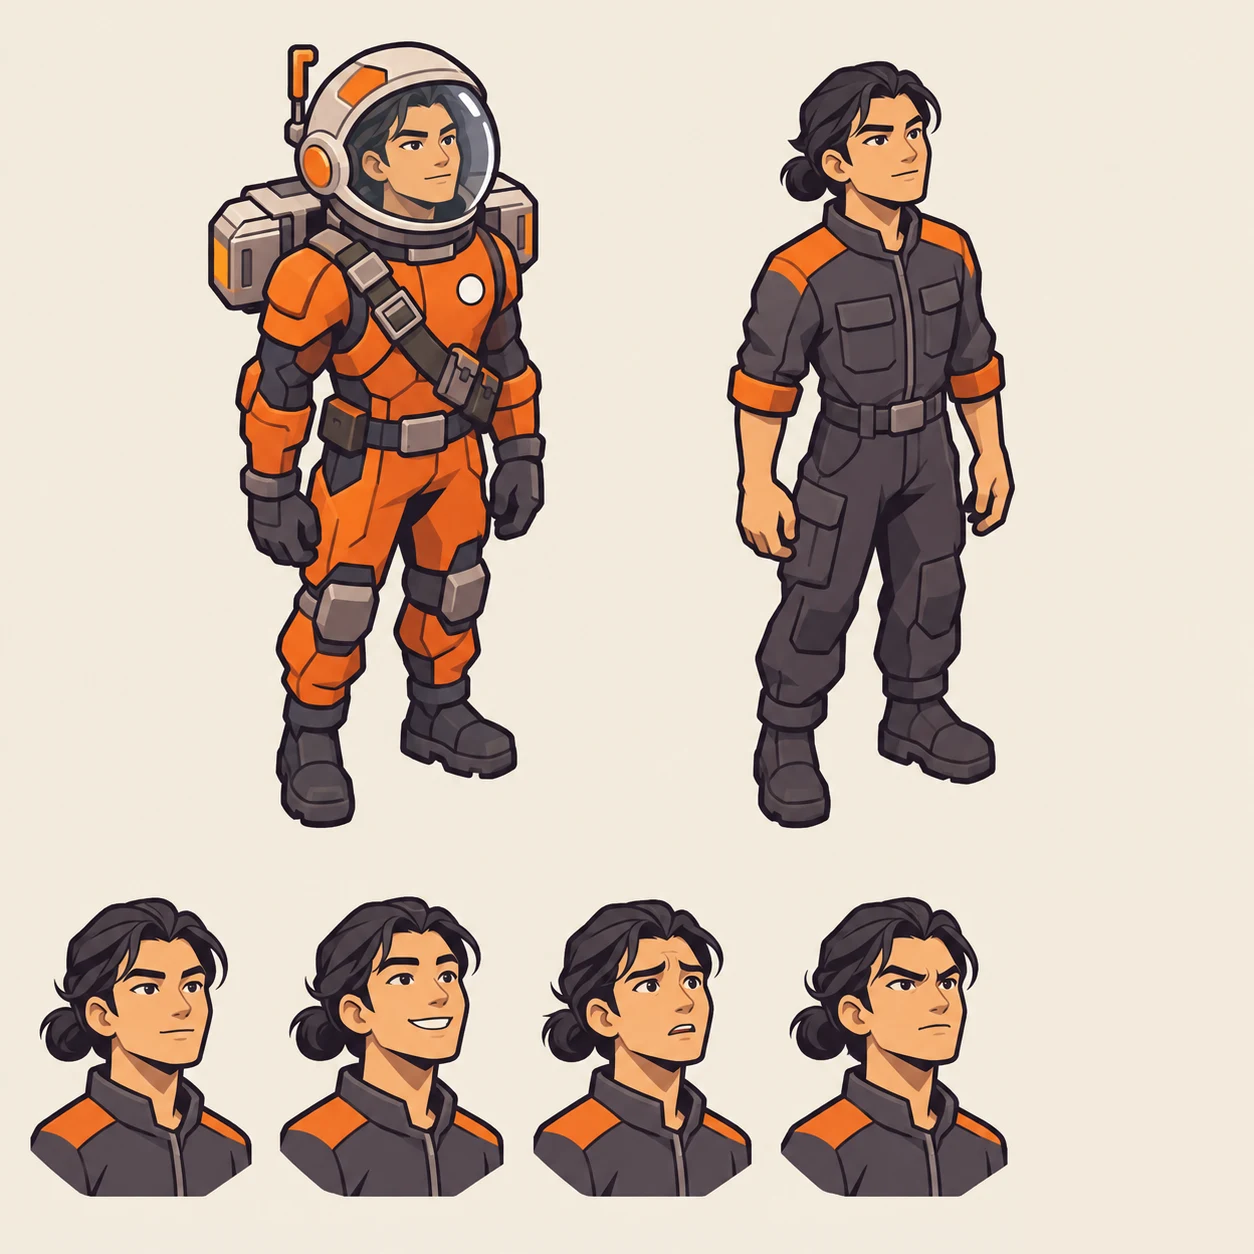
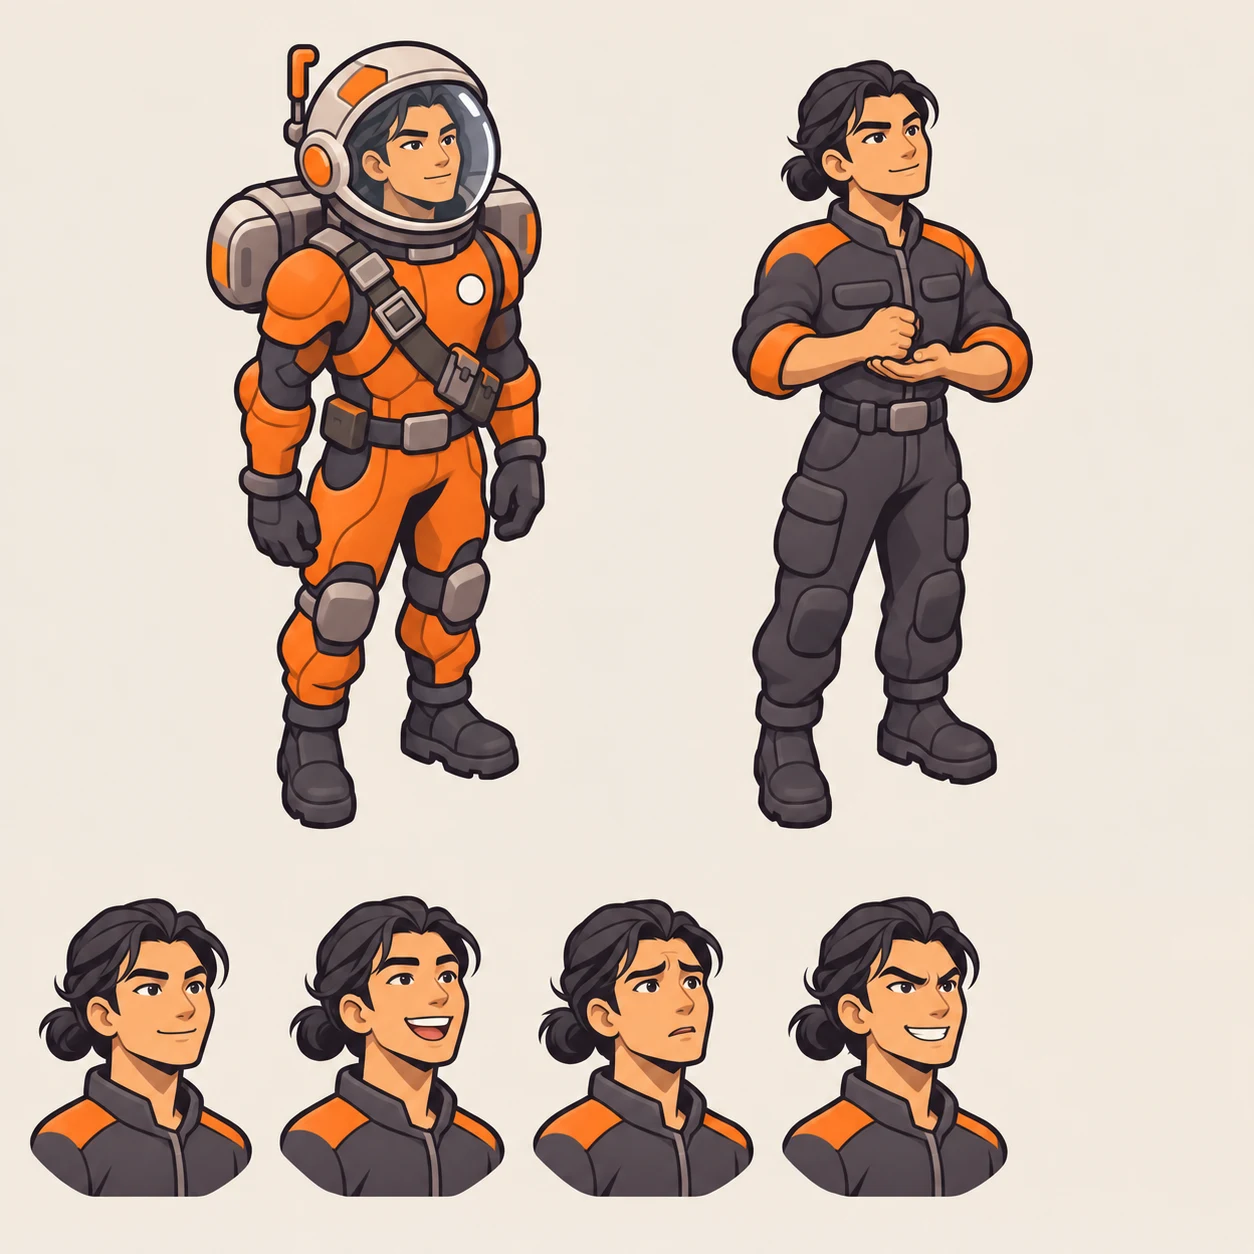
Concept 4 PC bản 2 theo khung 4 vai tâm lý, thêm bảng so dáng có hàng tô đen và script đo chiều cao

diff --git a/art/C/05-nhan-vat/demo-pc/prompt/ghep.py b/art/C/05-nhan-vat/demo-pc/prompt/ghep.py
@@ -4,10 +4,10 @@ from PIL import Image, ImageDraw, ImageFont
 src, dst = sys.argv[1], sys.argv[2]
 os.makedirs(dst, exist_ok=True)
 CARDS = [
-    ("pc1.png", "PC-1  Nguyễn Việt", "Việt Nam - nam, 29 - slot cam ○ - MVP"),
-    ("pc2.png", "PC-2  Jonas Weber", "Đức - nam, 34 - slot lam ngọc △ - MVP"),
-    ("pc3.png", "PC-3  Mei Tanaka", "Nhật Bản - nữ, 26 - slot vàng chanh □ - Sau MVP"),
-    ("pc4c.png", "PC-4  Niamh Doyle", "Ireland - nữ, 36 - slot hồng tím ◇ - Sau MVP"),
+    ("pc1.png", "PC-1  Nguyễn Việt", "Người truyền lửa - Việt Nam, nam, 29 - slot cam ○ - MVP"),
+    ("pc2.png", "PC-2  Jonas Weber", "Chỗ dựa - Đức, nam, 34 - slot lam ngọc △ - MVP"),
+    ("pc3.png", "PC-3  Mei Tanaka", "Cây hài - Nhật Bản, nữ, 26 - slot vàng chanh □ - Sau MVP"),
+    ("pc4.png", "PC-4  Niamh Doyle", "Bộ não - Ireland, nữ, 36 - slot hồng tím ◇ - Sau MVP"),
 ]
 F = "C:/Windows/Fonts/"
 big = ImageFont.truetype(F + "segoeuib.ttf", 44)
@@ -27,7 +27,7 @@ for i, (f, name, sub) in enumerate(CARDS):
         cx += d.textlength(part + " ", font=f2)
     del cx
     sheet.paste(im, (x, y + BAR))
-    im.save(os.path.join(dst, f.replace("pc4c", "pc4").replace(".png", ".webp")), quality=88)
+    im.save(os.path.join(dst, f.replace(".png", ".webp")), quality=88)
 sheet.save(os.path.join(dst, "doi-hinh-4-pc.webp"), quality=88)
 sheet.resize((W, W + BAR)).save(os.path.join(src, "preview.png"))
 print("ok", sheet.size)

diff --git a/art/C/05-nhan-vat/demo-pc/prompt/do-cao.py b/art/C/05-nhan-vat/demo-pc/prompt/do-cao.py
@@ -1,0 +1,26 @@
+# Đo chiều cao 4 silhouette ở nửa dưới bảng so dáng, in tỉ lệ so với người thứ 3 (Việt, 1,0 u).
+# Chạy: python -X utf8 -P prompt/do-cao.py <ảnh so dáng>
+import sys
+from PIL import Image
+
+im = Image.open(sys.argv[1]).convert("L")
+W, H = im.size
+y0 = H // 2 + 10
+den = lambda x, y: im.getpixel((x, y)) < 40
+xs = [x for x in range(W) if any(den(x, y) for y in range(y0, H - 40, 4))]
+cum, s, p = [], xs[0], xs[0]
+for x in xs[1:]:
+    if x - p > 15:
+        cum.append((s, p))
+        s = x
+    p = x
+cum.append((s, p))
+cum = [c for c in cum if c[1] - c[0] > 40]
+assert len(cum) == 4, f"cần 4 silhouette, thấy {len(cum)}: {cum}"
+cao = []
+for a, b in cum:
+    ys = [y for y in range(y0, H - 30) if any(den(x, y) for x in range(a, b + 1, 2))]
+    cao.append(ys[-1] - ys[0])
+MUC_TIEU = [1.2, 1.1, 1.0, 0.9]  # Niamh, Jonas, Việt, Mei theo bảng Tỉ lệ preset
+for ten, h, mt in zip(["Niamh", "Jonas", "Việt", "Mei"], cao, MUC_TIEU):
+    print(f"{ten}: {h} px, {h / cao[2]:.2f} lần Việt, mục tiêu {mt}")

diff --git a/art/C/05-nhan-vat/demo-pc/prompt.md b/art/C/05-nhan-vat/demo-pc/prompt.md
@@ -1,33 +1,46 @@
 # Demo concept 4 nhân vật người chơi
 
-Ngày 2026-11-25. GPT (Codex CLI, image_gen) vẽ theo bảng bối cảnh ở `projects/game-moi/gdd/he-thong/ho-so-nhan-vat.md` 2b.1 và `cot-truyen.md` mục Tính cách bốn hồ sơ mặc định. Đây là demo hướng nhân vật để Lead xem. Chưa phải concept chốt của artist.
+Bản 2 ngày 2026-11-26, vẽ theo khung 4 vai tâm lý Lead duyệt (`projects/game-moi/de-xuat-4-pc-vai-tam-ly.md`): Việt Người truyền lửa (khối tròn), Jonas Chỗ dựa (khối vuông), Mei Cây hài (khối tròn phóng đại), Niamh Bộ não (khối tam giác). Nguồn chữ: `ho-so-nhan-vat.md` 2b.1 (bảng Tỉ lệ preset) và `cot-truyen.md` mục Tính cách bốn hồ sơ mặc định. Đây là demo hướng nhân vật do GPT vẽ, chưa phải concept chốt của artist.
 
 | File | Nội dung |
 |---|---|
-| `doi-hinh-4-pc.webp` | Bảng ghép 4 tấm, có nhãn tên, quốc gia, giới tính, tuổi, slot |
-| `pc1.webp` - `pc4.webp` | Mỗi tấm 1254x1254: bộ đồ ngoài đội mũ, đồ trạm, 4 biểu cảm (bình thường, vui, lo, quyết tâm) |
-| `prompt/` | Prompt từng tấm và `ghep.py` (ghép và ghi nhãn bằng PIL) |
+| `doi-hinh-4-pc.webp` | Bảng ghép 4 tấm, nhãn tên, vai, quốc gia, giới tính, tuổi, slot |
+| `pc1.webp` - `pc4.webp` | Mỗi tấm 1254x1254: bộ đồ ngoài đội mũ, đồ trạm theo dáng của vai, 4 biểu cảm (bình thường, vui, lo, quyết tâm) |
+| `so-dang-4-pc.webp` | Bốn người đứng cạnh nhau trên một đường nền, hàng dưới tô đen để kiểm silhouette (luật 2) |
+| `v1/` | Bản 1 ngày 2026-11-25, trước khung 4 vai |
+| `prompt/` | Prompt bản 1, bản 2 (`v2-*.txt`), `ghep.py`, `xoavat.py` |
 
 ## Cách làm
 
 | Bước | Lệnh, đầu vào |
 |---|---|
-| PC-1 làm mốc style | `codex-img.sh -e medium -i gameplay-dai-gan-bai-vo.png prompt/pc1.txt`. Ảnh cảnh bay Lead duyệt 2026-11-23 chỉ dùng để lấy nét vẽ |
-| PC-2, PC-3 | Đính kèm tấm PC-1 làm mốc style và bố cục, chạy song song |
-| PC-4 | Vòng 1 vẽ quá đô con. Lead: "PC-4 đô con quá, cô ấy là phụ nữ mà". Vòng 2 (`prompt/pc4c.txt`) đính kèm bản cũ và PC-1, đổi sang dáng cao mảnh, vai hẹp |
+| Bản 1, PC-1 làm mốc style | `codex-img.sh -e medium -i gameplay-dai-gan-bai-vo.png prompt/pc1.txt`. Ảnh cảnh bay Lead duyệt 2026-11-23 chỉ dùng để lấy nét vẽ |
+| Bản 1, PC-4 | Vòng 1 vẽ quá đô con. Lead: "PC-4 đô con quá, cô ấy là phụ nữ mà". Vòng 2 đổi sang dáng cao mảnh |
+| Bản 1, bỏ vật để lại | `prompt/xoavat.py` tô màu nền đè góc phải dưới (Lead chốt đổi sang hòm) |
+| Bản 2 | Mỗi tấm sửa từ tấm bản 1 đã bỏ vật: `codex-img.sh -e medium -i <bản 1> prompt/v2-pcN.txt`, chỉ đổi hình khối, tỉ lệ, dáng đồ trạm, 4 biểu cảm |
+| So dáng | `codex-img.sh -e medium -i pc1 -i pc2 -i pc3 -i pc4 prompt/v2-doihinh.txt` |
+| Sửa chiều cao | Vòng 1 Niamh chỉ cao 1,09 lần Việt. Vòng 2 `prompt/v2-doihinh-b.txt` kéo cao. Đo bằng `python -X utf8 -P prompt/do-cao.py so-dang-4-pc.webp` |
 | Ghép | `python -X utf8 -P prompt/ghep.py <thư mục ảnh> <thư mục ra>` |
 
-## Bảng kiểm (soi bằng mắt)
+## Bảng kiểm bản 2 (soi bằng mắt)
 
-| Mục | PC-1 | PC-2 | PC-3 | PC-4 |
+| Mục | PC-1 Việt | PC-2 Jonas | PC-3 Mei | PC-4 Niamh |
 |---|---|---|---|---|
-| Đúng giới tính, da sáng | Đạt | Đạt | Đạt | Đạt (vòng 2) |
-| Màu slot và ký hiệu trên ngực | Cam, tròn | Lam ngọc, tam giác | Vàng chanh, vuông | Hồng tím, thoi |
-| Silhouette theo hồ sơ | Ăng-ten chữ L, bình Oxy ngang | Bình Oxy dọc, kính | Mũ trứng có chóp sáng, balo tròn | Cao mảnh, bình Oxy trên vai, túi hông |
-| Đồ trạm xám than, màu slot ở vai và cổ tay | Đạt | Đạt | Đạt | Đạt |
+| Hình khối | Vai và mảng đồ bo tròn | Vai ngang rộng, thân hộp, tay to | Đầu to, tay chân ngắn, thân tròn | Rất cao gầy, mảng chữ V, mũ kính vát góc |
+| Dáng đồ trạm theo idle | Đấm tay vào lòng bàn tay | Khoanh tay, đứng vững | Nhún một chân, tay vỗ quai balo | Xem đồng hồ Oxy ở cổ tay, tay xoa gáy |
+| Biểu cảm bình thường | Cười nửa miệng, cằm ngẩng | Mắt hiền sau kính | Mắt to tròn, má phồng | Mày nhíu, mắt liếc như đang tính |
+| Giữ tên, màu slot, giới tính, da sáng | Đạt | Đạt | Đạt | Đạt |
 
-Vật để lại ở góc phải dưới đã xóa ngày 2026-11-26 (Lead chốt đổi sang hòm dùng chung): `python -X utf8 -P prompt/xoavat.py` tô màu nền lấy mẫu ngay trên vùng xóa, rồi ghép lại. Ảnh gốc GPT vẫn còn vật.
+Chiều cao trên `so-dang-4-pc.webp`, đo hàng tô đen bằng `prompt/do-cao.py`:
+
+| Người | Đo được (lần Việt) | Mục tiêu GDD |
+|---|---|---|
+| Niamh | 1,15 | 1,2 |
+| Jonas | 1,09 | 1,1 |
+| Việt | 1,00 | 1,0 |
+| Mei | 0,90 | 0,9 |
 
 Lệch còn để ngỏ:
-- PC-3: tóc dài tới cằm, gợn sóng, chưa đúng kiểu "ngắn bồng".
-- PC-3 chưa thấp hơn rõ so với người khác.
+- Niamh thấp hơn mục tiêu 4% vì dáng cúi đầu xem đồng hồ. Artist dựng theo số GDD, không theo ảnh này.
+- PC-3: tóc thành khối xoăn bồng to, chưa ra kiểu bob ngắn thẳng. Vẫn đúng "ngắn bồng" trong GDD.
+- PC-2: bình Oxy bản 2 thành bình trụ có ống nối mũ, khác bình thùng dọc của bản 1. Bình là trục nâng cấp nên không dùng làm dấu nhận diện.
